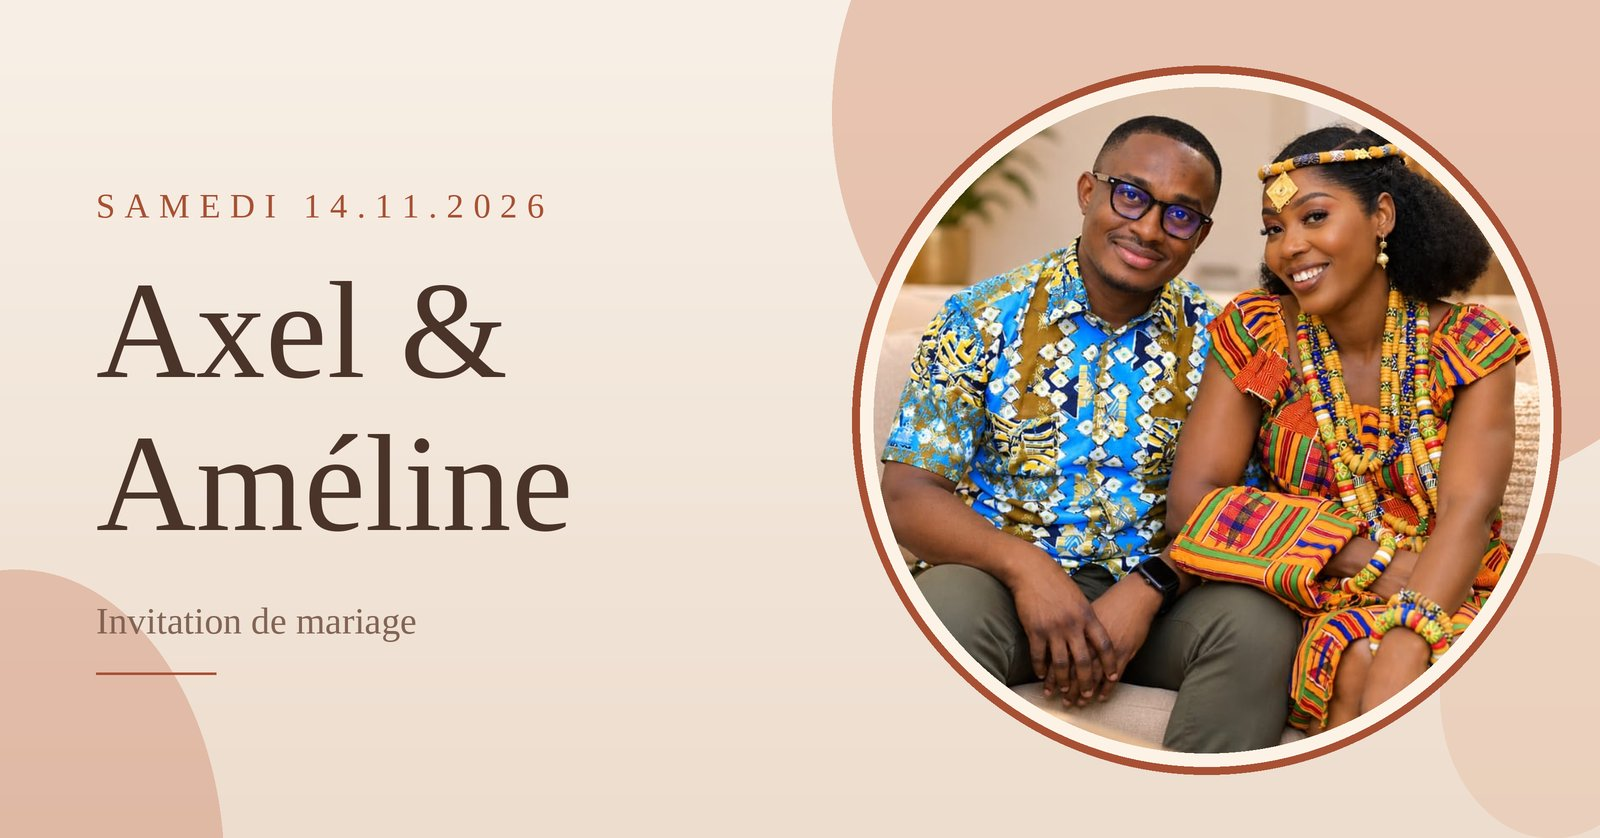
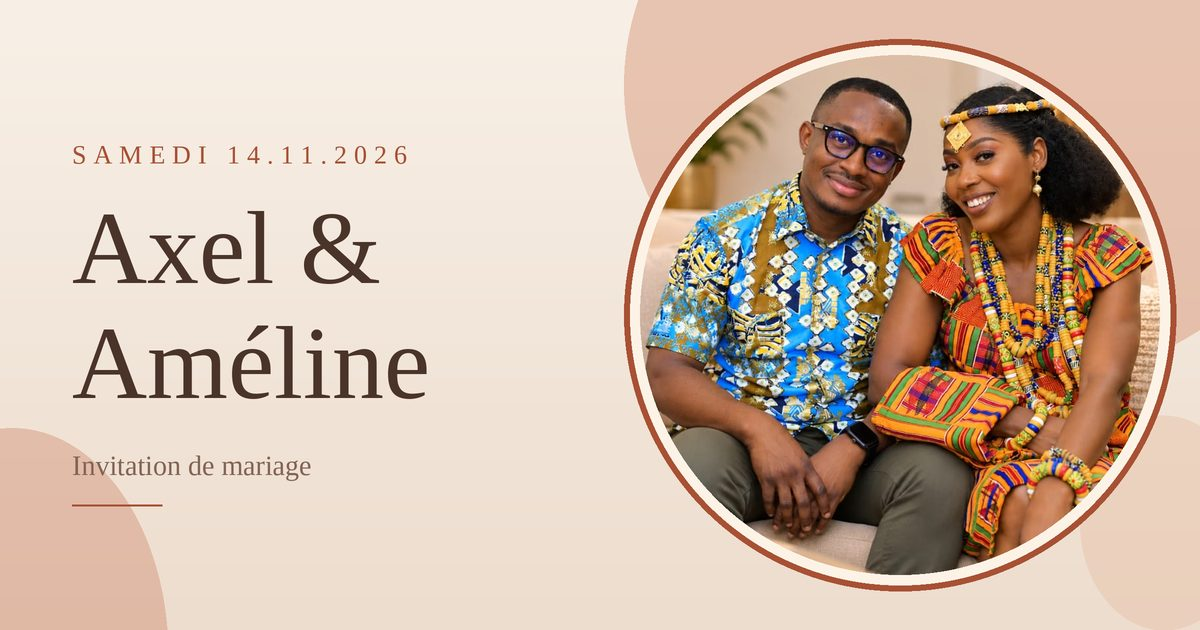
m7

diff --git a/src/app/layout.js b/src/app/layout.js
@@ -27,8 +27,8 @@ export const metadata = {
     images: [
       {
         url: "/og-image.jpg",
-        width: 1600,
-        height: 838,
+        width: 1200,
+        height: 630,
         alt: "Axel et Améline",
       },
     ],
